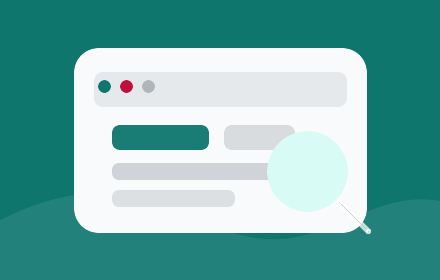
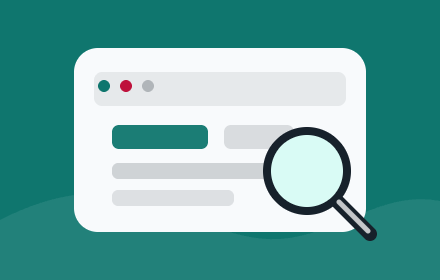
Rebrand: Universal Asset Inspector → Asset Lens
- Manifest name/short_name/action title, UI titles (popup, side panel,
  DevTools panel), HAR creator, export filename prefix, Dexie DB name
  (safe pre-publication), and internal wire identifiers
- Icons renamed asset-lens-* and re-rendered from the updated SVG via
  headless Chrome (ImageMagick dropped the stroked lens); promo tile
  regenerated
- package.json name + Web Store zip now asset-lens-<version>.zip;
  listing copy updated

diff --git a/src/manifest.ts b/src/manifest.ts
@@ -6,15 +6,15 @@ const frameFallback = { match_origin_as_fallback: true } as unknown as Record<st
 
 export const manifest = defineManifest({
   manifest_version: 3,
-  name: "Universal Asset Inspector",
-  short_name: "Asset Inspector",
+  name: "Asset Lens",
+  short_name: "Asset Lens",
   version: "0.2.0",
   description: "Inspect, classify, preview, and export browser-delivered assets in real time.",
   icons: {
-    "16": "icons/asset-inspector-16.png",
-    "32": "icons/asset-inspector-32.png",
-    "48": "icons/asset-inspector-48.png",
-    "128": "icons/asset-inspector-128.png"
+    "16": "icons/asset-lens-16.png",
+    "32": "icons/asset-lens-32.png",
+    "48": "icons/asset-lens-48.png",
+    "128": "icons/asset-lens-128.png"
   },
   permissions: [
     "activeTab",
@@ -33,12 +33,12 @@ export const manifest = defineManifest({
   },
   action: {
     default_icon: {
-      "16": "icons/asset-inspector-16.png",
-      "24": "icons/asset-inspector-24.png",
-      "32": "icons/asset-inspector-32.png"
+      "16": "icons/asset-lens-16.png",
+      "24": "icons/asset-lens-24.png",
+      "32": "icons/asset-lens-32.png"
     },
     default_popup: "src/popup/index.html",
-    default_title: "Asset Inspector"
+    default_title: "Asset Lens"
   },
   side_panel: {
     default_path: "src/sidepanel/index.html"

diff --git a/src/content/content-script.ts b/src/content/content-script.ts
@@ -268,7 +268,7 @@ function rememberHookEvent(event: PageHookEvent): void {
 window.addEventListener("message", (event) => {
   if (event.source !== window) return;
   const data = event.data as { source?: string; payload?: unknown };
-  if (data?.source === "asset-inspector-page-hook" && data.payload) {
+  if (data?.source === "asset-lens-page-hook" && data.payload) {
     if (!isPageHookEvent(data.payload)) return;
     // CSSOM mutation signal: the page injected/replaced stylesheet rules with no
     // DOM mutation. Re-scan stylesheets locally; nothing to record in the background.
@@ -285,7 +285,7 @@ window.addEventListener("message", (event) => {
     } satisfies RuntimeMessage);
     return;
   }
-  if (data?.source === "asset-inspector-page-hook-body" && data.payload) {
+  if (data?.source === "asset-lens-page-hook-body" && data.payload) {
     const body = data.payload as { key?: string; mime?: string; buffer?: ArrayBuffer };
     if (
       typeof body.key !== "string" ||

diff --git a/tests/extension-manifest.test.ts b/tests/extension-manifest.test.ts
@@ -24,11 +24,11 @@ describe("extension manifest permissions", () => {
   it("declares Chrome Web Store icon assets for the extension and toolbar action", () => {
     const source = readFileSync(join(process.cwd(), "src/manifest.ts"), "utf8");
 
-    expect(source).toContain('"16": "icons/asset-inspector-16.png"');
-    expect(source).toContain('"32": "icons/asset-inspector-32.png"');
-    expect(source).toContain('"48": "icons/asset-inspector-48.png"');
-    expect(source).toContain('"128": "icons/asset-inspector-128.png"');
+    expect(source).toContain('"16": "icons/asset-lens-16.png"');
+    expect(source).toContain('"32": "icons/asset-lens-32.png"');
+    expect(source).toContain('"48": "icons/asset-lens-48.png"');
+    expect(source).toContain('"128": "icons/asset-lens-128.png"');
     expect(source).toContain('default_icon:');
-    expect(source).toContain('"24": "icons/asset-inspector-24.png"');
+    expect(source).toContain('"24": "icons/asset-lens-24.png"');
   });
 });

diff --git a/src/content/page-hooks.ts b/src/content/page-hooks.ts
@@ -7,12 +7,12 @@
   // "/" restricts delivery to this same window's origin (and handles opaque
   // origins), so captured bytes aren't broadcast to cross-origin frames.
   const post = (payload: unknown) => {
-    window.postMessage({ source: "asset-inspector-page-hook", payload }, "/");
+    window.postMessage({ source: "asset-lens-page-hook", payload }, "/");
   };
 
   const postBody = (key: string, mime: string | undefined, buffer: ArrayBuffer | undefined) => {
     if (!key || !buffer || buffer.byteLength === 0 || buffer.byteLength > MAX_BODY_BYTES) return;
-    window.postMessage({ source: "asset-inspector-page-hook-body", payload: { key, mime, buffer } }, "/");
+    window.postMessage({ source: "asset-lens-page-hook-body", payload: { key, mime, buffer } }, "/");
   };
 
   const captureBlobBody = (key: string, blob: Blob) => {

diff --git a/src/shared/exporters.ts b/src/shared/exporters.ts
@@ -58,7 +58,7 @@ export async function buildExportPayload(
   });
 
   let bytes: Uint8Array;
-  let filename = `asset-inspector-${sessionId}.${type === "url-list" ? "txt" : type}`;
+  let filename = `asset-lens-${sessionId}.${type === "url-list" ? "txt" : type}`;
   let mime = "application/octet-stream";
 
   if (type === "json") {
@@ -72,7 +72,7 @@ export async function buildExportPayload(
     bytes = textBytes(sanitizedAssets.map((asset) => asset.url).join("\n"));
   } else if (type === "har") {
     mime = "application/json";
-    filename = `asset-inspector-${sessionId}.har`;
+    filename = `asset-lens-${sessionId}.har`;
     bytes = textBytes(JSON.stringify(buildHar(sanitizedAssets, redactRequestEvents(requests, redactionSummary)), null, 2));
   } else {
     mime = "application/zip";

diff --git a/src/sidepanel/App.tsx b/src/sidepanel/App.tsx
@@ -167,7 +167,7 @@ export function App({ compact = false, tabId }: AppProps) {
               <Eye size={17} />
             </div>
             <div className="min-w-0">
-              <h1 className="truncate text-sm font-semibold leading-tight">Asset Inspector</h1>
+              <h1 className="truncate text-sm font-semibold leading-tight">Asset Lens</h1>
               <p className="truncate text-xs text-slate-500">
                 {assets.length} asset{assets.length === 1 ? "" : "s"}
                 {bytesCount > 0 && <span> · {bytesCount} with bytes</span>}

diff --git a/src/content/element-picker.ts b/src/content/element-picker.ts
@@ -52,7 +52,7 @@ export function deactivatePicker(): void {
 
 function createOverlay() {
   const host = document.createElement("div");
-  host.id = "__asset-inspector-picker";
+  host.id = "__asset-lens-picker";
   host.style.cssText = "all:initial;position:fixed;top:0;left:0;width:0;height:0;z-index:2147483647;pointer-events:none;";
   const root = host.attachShadow({ mode: "closed" });
 

diff --git a/src/shared/db.ts b/src/shared/db.ts
@@ -10,7 +10,7 @@ class AssetInspectorDatabase extends Dexie {
   assetBodies!: Table<AssetBodyRecord, string>;
 
   constructor() {
-    super("asset-inspector");
+    super("asset-lens");
     this.version(1).stores({
       assets: "id, sessionId, tabId, kind, url, updatedAt",
       requests: "id, sessionId, requestId, tabId, phase, timestamp",

diff --git a/src/shared/har.ts b/src/shared/har.ts
@@ -94,7 +94,7 @@ export function buildHar(assets: AssetRecord[], requests: RequestEvent[]) {
     log: {
       version: "1.2",
       creator: {
-        name: "Universal Asset Inspector",
+        name: "Asset Lens",
         version: "0.1.0"
       },
       entries

diff --git a/src/devtools/panel.html b/src/devtools/panel.html
@@ -3,7 +3,7 @@
   <head>
     <meta charset="UTF-8" />
     <meta name="viewport" content="width=device-width, initial-scale=1.0" />
-    <title>Asset Inspector Panel</title>
+    <title>Asset Lens Panel</title>
   </head>
   <body>
     <div id="root"></div>

diff --git a/src/popup/index.html b/src/popup/index.html
@@ -3,7 +3,7 @@
   <head>
     <meta charset="UTF-8" />
     <meta name="viewport" content="width=device-width, initial-scale=1.0" />
-    <title>Asset Inspector</title>
+    <title>Asset Lens</title>
   </head>
   <body>
     <div id="root"></div>

diff --git a/src/sidepanel/index.html b/src/sidepanel/index.html
@@ -3,7 +3,7 @@
   <head>
     <meta charset="UTF-8" />
     <meta name="viewport" content="width=device-width, initial-scale=1.0" />
-    <title>Asset Inspector</title>
+    <title>Asset Lens</title>
   </head>
   <body>
     <div id="root"></div>
